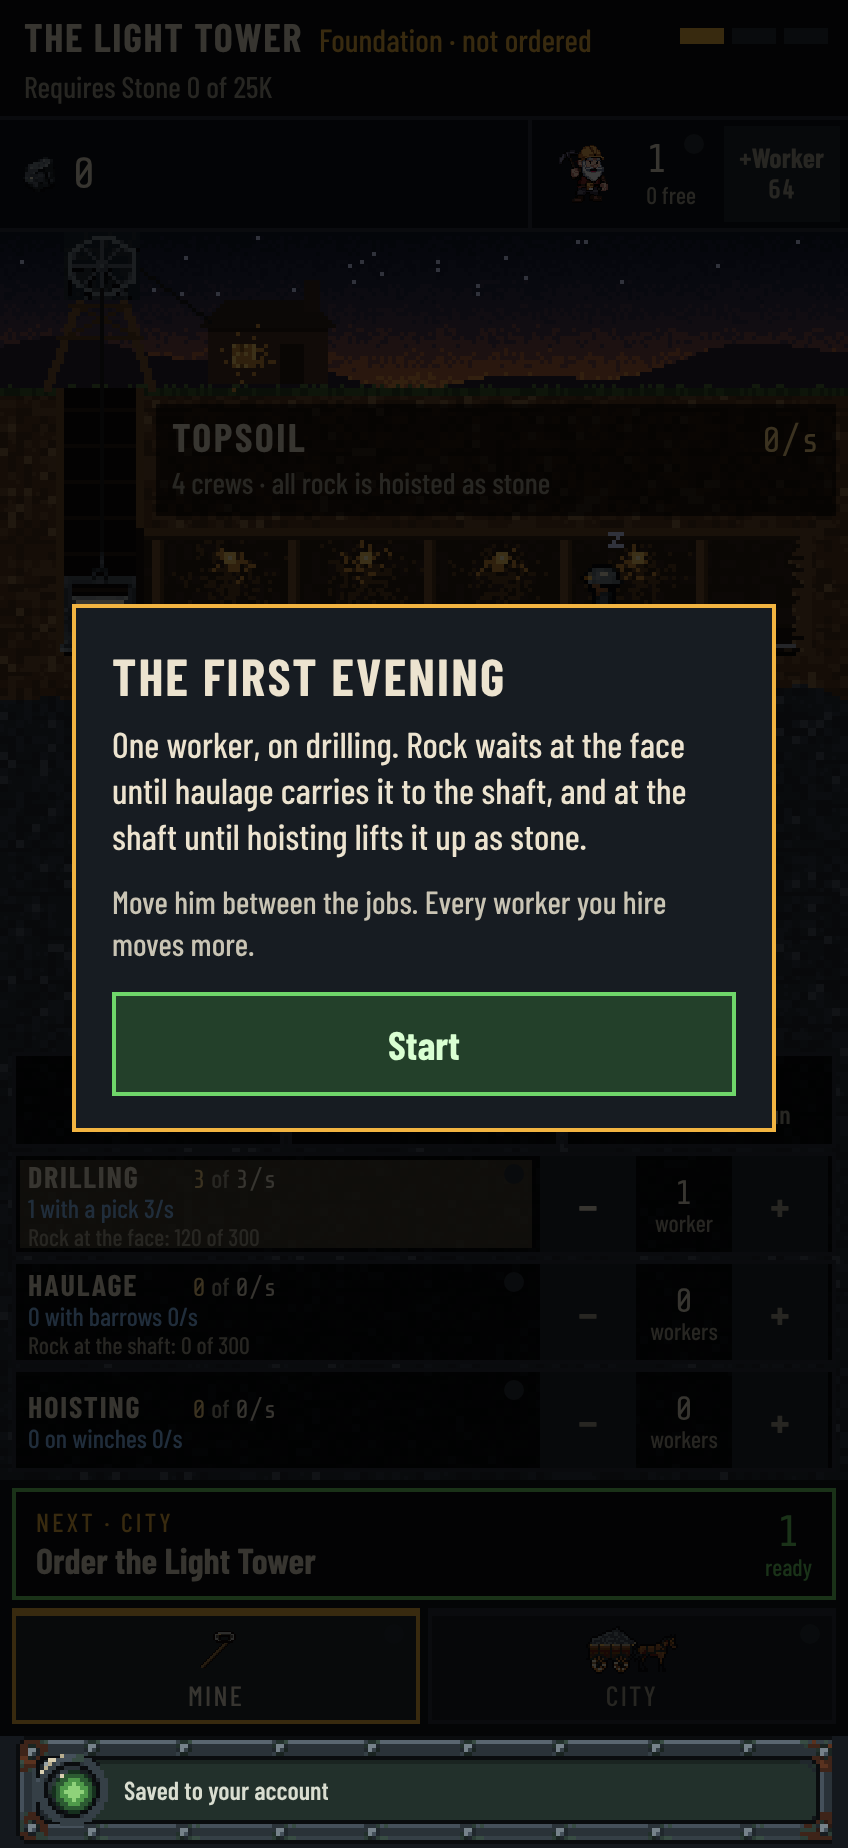
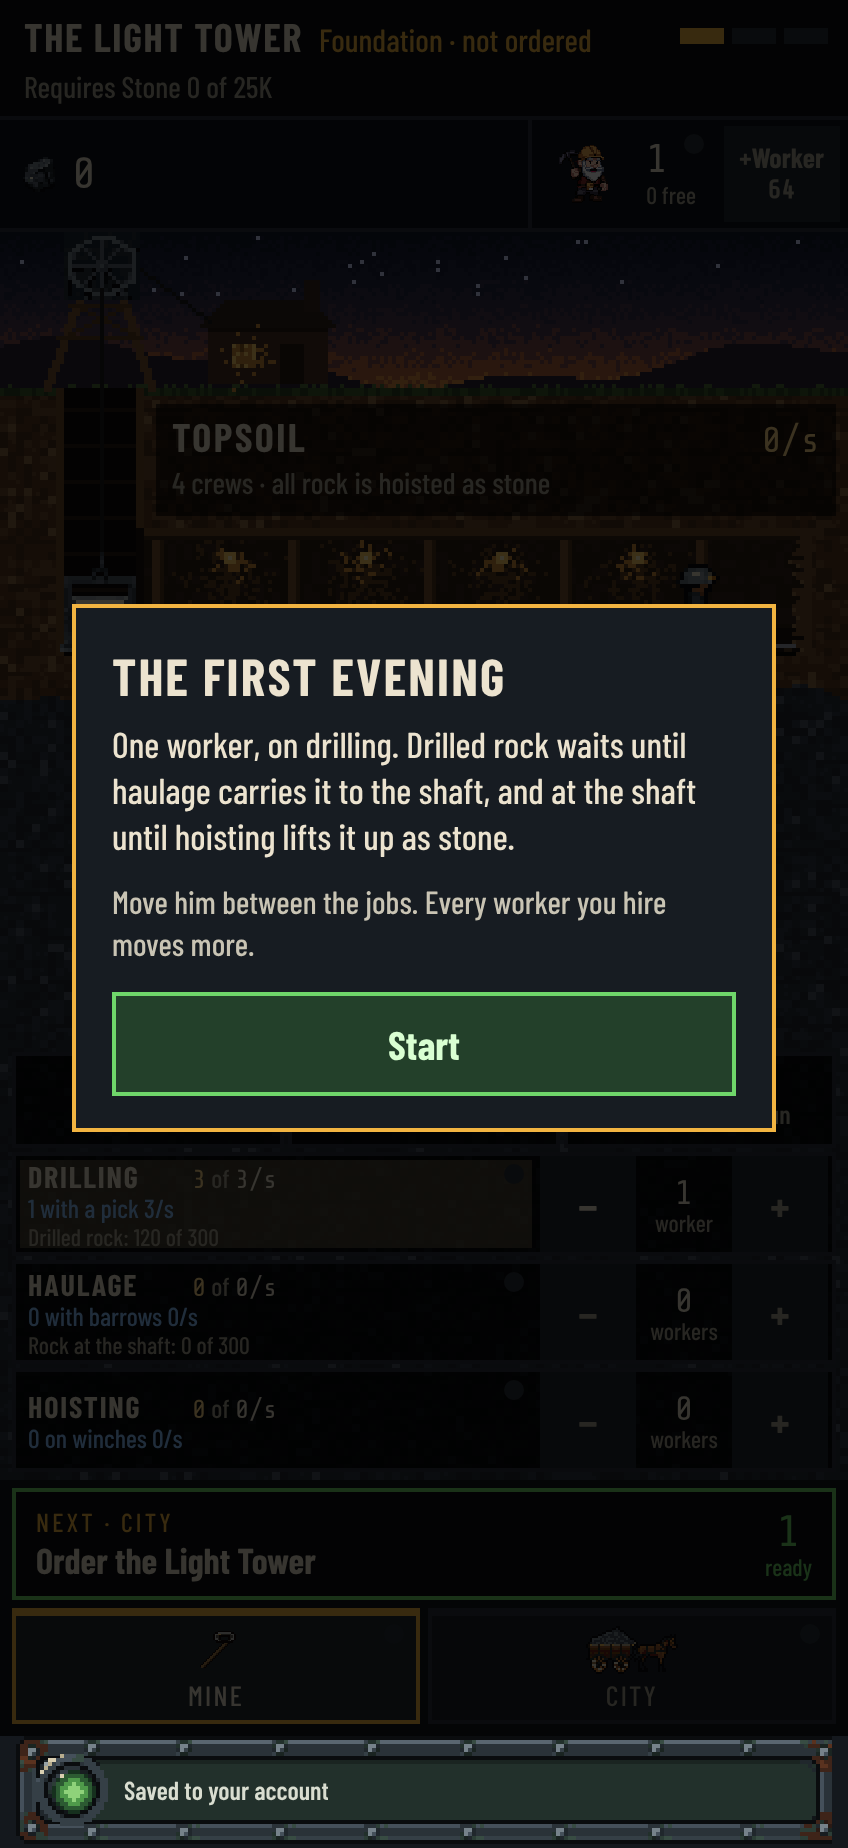
M15-28: The start's shots show drilled rock
Claude-Session: https://claude.ai/code/session_011RgeWuwT91GKRQMYSY79vn

Changed region(s): [[0.1226, 0.401, 0.8278, 0.4627], [0.7052, 0.2776, 0.7358, 0.3393], [0.7972, 0.3084, 0.8278, 0.3393]]

diff --git a/src/mine-view.ts b/src/mine-view.ts
@@ -302,7 +302,7 @@ const PILE_AFTER: Readonly<Record<Stage, PileId | undefined>> = {
   lift: undefined,
 };
 
-/** The piles' words (#703), Flemming's to approve. */
+/** The piles' words (#703), approved by Flemming on 15 Nov 2026 (no "face"). */
 export const PILE_LABELS: Readonly<Record<PileId, string>> = {
   face: "Drilled rock",
   shaft: "Rock at the shaft",
